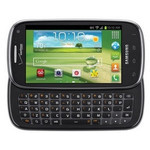
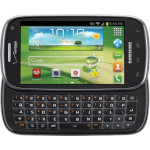
D700 Added spec page.

diff --git a/phone/d700_spec.htm b/phone/d700_spec.htm
@@ -1,0 +1,22 @@
+<!DOCTYPE html PUBLIC "-//W3C//DTD XHTML 1.0 Strict//EN" "http://www.w3.org/TR/xhtml1/DTD/xhtml1-strict.dtd">
+<html xmlns="http://www.w3.org/1999/xhtml" xml:lang="en" lang="en">
+<head><script type="text/javascript" src="../page_head.js"></script>
+
+<h3><a href="../phone.htm">手機</a> - Samsung Galaxy S Epic 4G (SPH-D700) - <b>簡要規格</b></h3>
+<hr size="1"><br>
+<table>
+    <tr><th>CHIP</th><td>Samsung Intrinsity S5PC110</td></tr>
+    <tr><th>CPU</th><td>ARM Cortex-A8 1.0GHz</td></tr>
+    <tr><th>GPU</th><td>Imagination Technologies PowerVR SGX540 GPU</td></tr>
+    <tr><th>MEMORY</th><td>RAM 512MB<br>Flash 512MB</td></tr>
+    <tr><th>CAMERA</th><td>5MP</td></tr>
+    <tr><th>DISPLAY</th><td>4.0" 800x480 (Capacitive)</td></tr>
+    <tr><th>SLOT</th><td>MicroSD</td></tr>
+    <tr><th>PORT</th><td>MicroUSB</td></tr>
+    <tr><th>WIRELESS</th><td>Wi-Fi<br>Bluetooth v2.1</td></tr>
+    <tr><th>BATTERY</th><td>1800mA</td></tr>
+    <tr><th>DIMENSION</th><td>124mm x 65mm x 14mm</td></tr>
+    <tr><th>WEIGHT</th><td>155g</td></tr>
+</table>
+
+<br><script type="text/javascript" src="../tail.js"></script>

diff --git a/phone.htm b/phone.htm
@@ -39,6 +39,7 @@
     <a href="#pixel3axl">       <img src="img/photos/pixel3axl.jpg"     class="t0" title="Google Pixel 3a XL"/></a>
     <a href="#f5321">           <img src="img/photos/f5321.jpg"         class="t0" title="Sony Xperia X Compact"/></a>
     <a href="#i415">            <img src="img/photos/i415.jpg"          class="t0" title="Samsung Galaxy Stratosphere II (SCH-I415)"/></a>
+    <a href="#d700">            <img src="img/photos/d700.jpg"          class="t0" title="Samsung Galaxy S Epic 4G (SPH-D700)"/></a>
 </p>
 </div>
 
@@ -2390,6 +2391,15 @@ Samsung Galaxy Stratosphere II (SCH-I415)</h3>
     自定義鍵盤按鍵</a><br>
 <br><br><br><br>
 
+<div id="d700"></div>
+<h3><img src="img/photos/d700.jpg" class="floatLeft"/>
+Samsung Galaxy S Epic 4G (SPH-D700)</h3>
+<hr size="1"><br><br><br><br><br>
+
+&dash;
+<a href="phone/d700_spec.htm">
+簡要規格</a><br>
+<br><br><br><br>
 </p>
 
 <br><script type="text/javascript" src="tail.js"></script>
